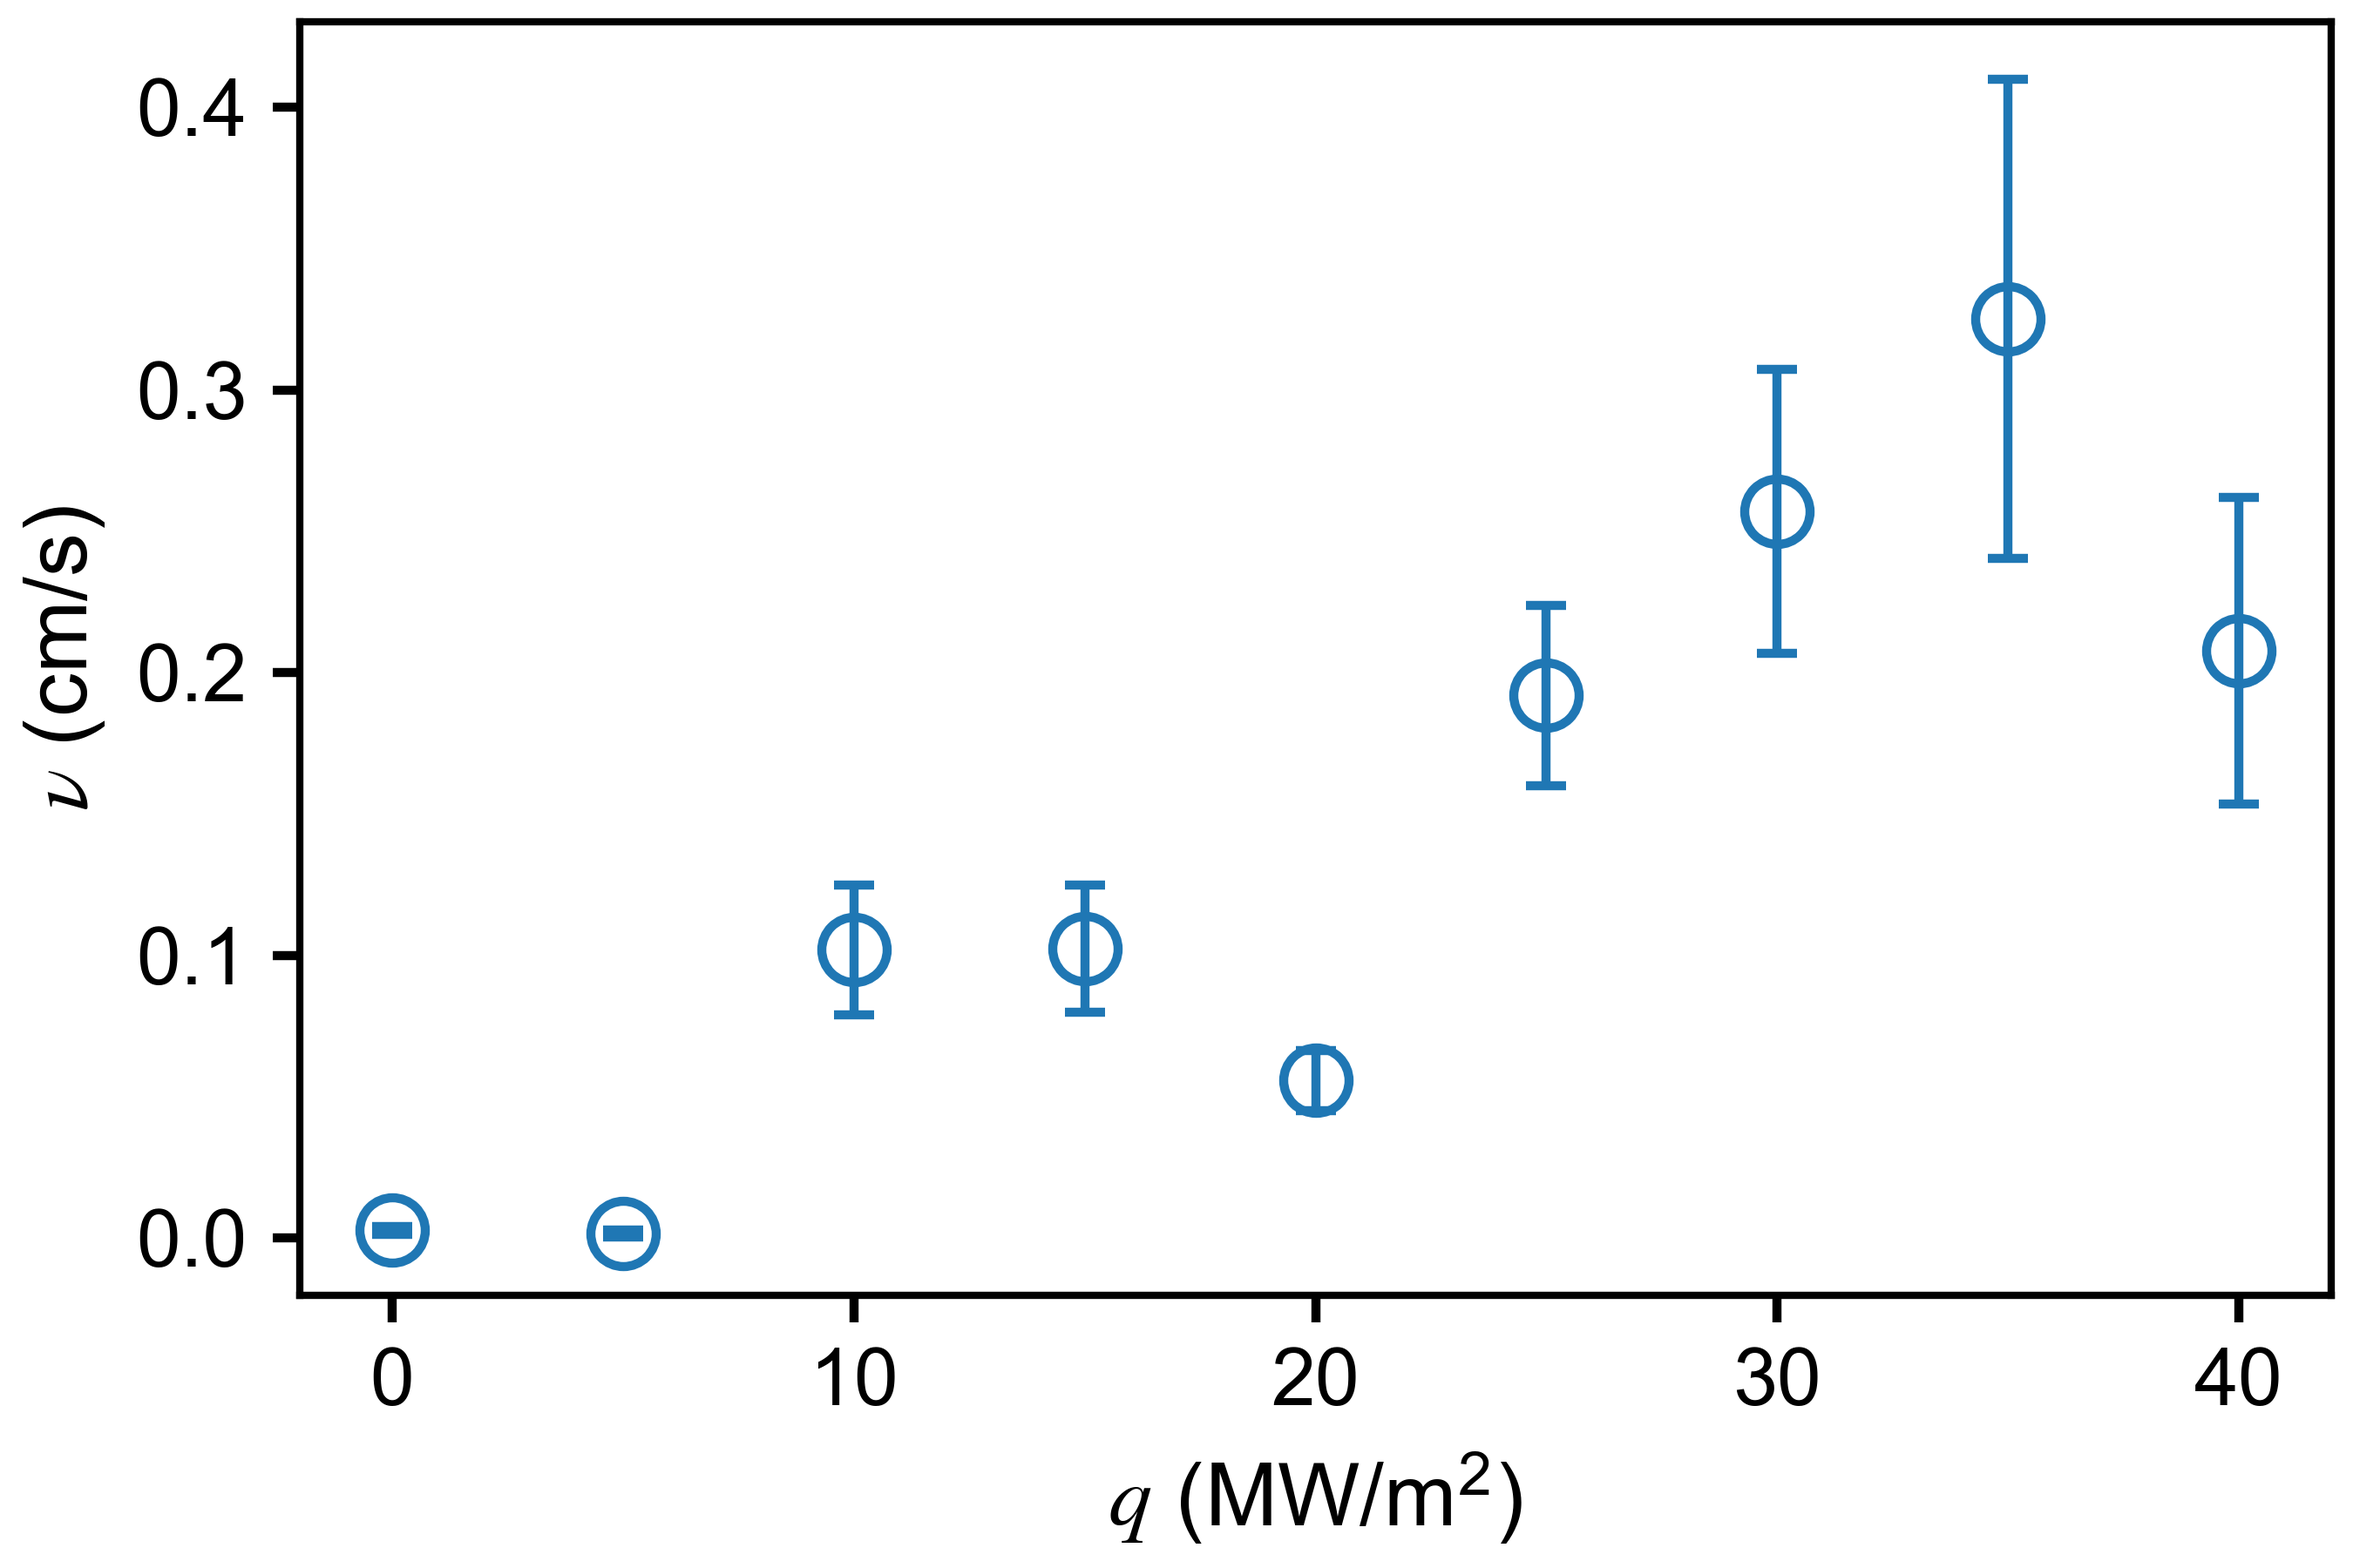
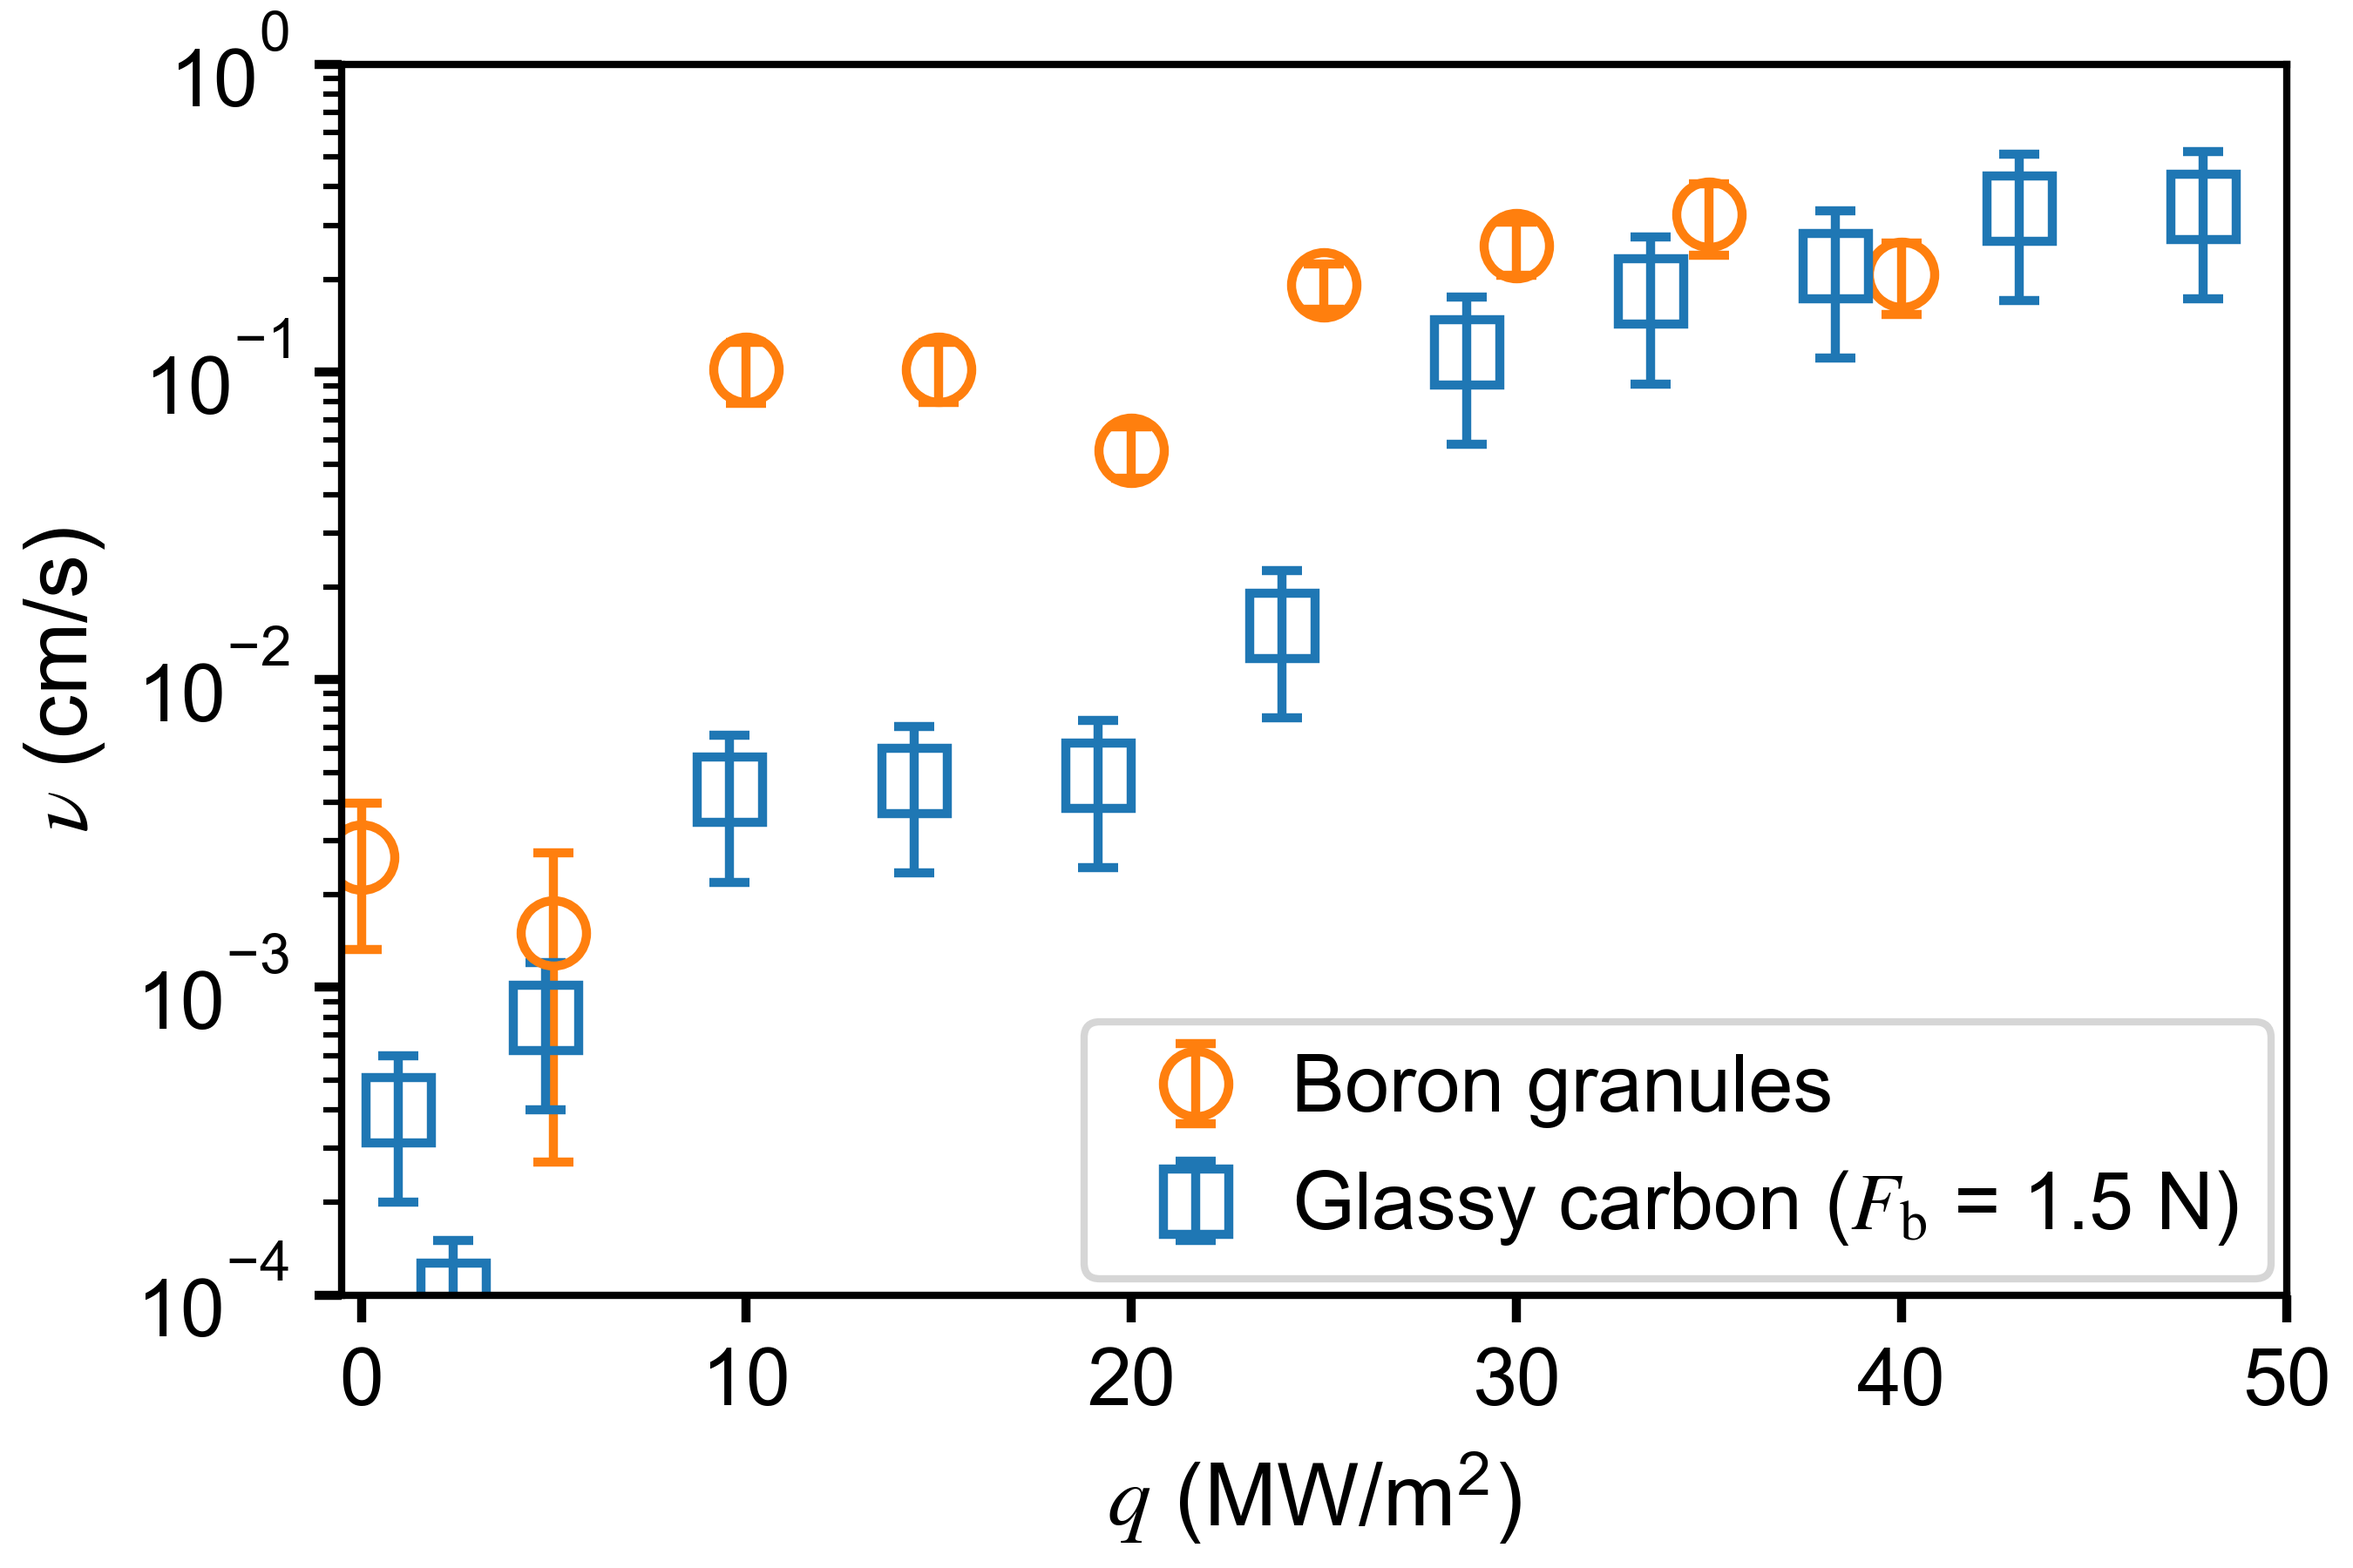
masnuscript3 figures

diff --git a/data_processing/2024/manuscript3/boron_borazane_recession.py b/data_processing/2024/manuscript3/boron_borazane_recession.py
@@ -9,20 +9,24 @@ import json
 laser_power_csv = r'../../laser_power_mapping/laser_power_mapping.csv'
 beam_radius = 0.5 * 0.8165  # * 1.5 # 0.707
 
+
 def load_plot_style():
     with open('plot_style.json', 'r') as file:
         json_file = json.load(file)
         plot_style = json_file['thinLinePlotStyle']
     mpl.rcParams.update(plot_style)
 
+
 def mean_err(x):
     return np.linalg.norm(x) / len(x)
+
+
 def map_laser_power_settings():
-    global laser_power_csv, beam_radius
+    global laser_power_csv
     df: pd.DataFrame = pd.read_csv(laser_power_csv).apply(pd.to_numeric)
     mapping = {}
     for i, row in df.iterrows():
-       mapping[row['Laser power setting (%)']] = row['Laser power (W)']
+        mapping[row['Laser power setting (%)']] = row['Laser power (W)']
 
     keys = list(mapping.keys())
     keys.sort()
@@ -31,25 +35,31 @@ def map_laser_power_settings():
 
 def gaussian_beam_aperture_factor(beam_radius, sample_radius):
     return 1.0 - np.exp(-2.0 * (sample_radius / beam_radius) ** 2.0)
+
+
 def main():
     data_df: pd.DataFrame = pd.read_excel(
         io='data/laser_tests.xlsx', sheet_name=0,
-        usecols=(
+        usecols=[
             'ROW', 'Power percent setting (%)', 'Irradiation time (s)', 'Recession rate (cm/s)',
             'Recession rate error (cm/s)', 'Sample diameter (cm)'
-        )
+        ]
     ).apply(pd.to_numeric)
     laser_mapping = map_laser_power_settings()
     data_df['Laser power (W)'] = [laser_mapping[int(lp)] for lp in data_df['Power percent setting (%)'].values]
-    diameter = 1.#data_df['Sample diameter (cm)'].values
+    diameter = 1.  # data_df['Sample diameter (cm)'].values
     av = gaussian_beam_aperture_factor(beam_radius, 0.5 * diameter)
     area = 0.25 * np.pi * diameter ** 2.
-    data_df['Heat load (MW/m^2)'] = np.round(data_df['Laser power (W)'].values * av / area / 100. /5) *5.
+    data_df['Heat load (MW/m^2)'] = np.round(data_df['Laser power (W)'].values * av / area / 100. / 5) * 5.
     agg_df = data_df.groupby(by=['Heat load (MW/m^2)']).agg(
         ['mean', mean_err]
     )
 
     agg_df.sort_values(by=['Heat load (MW/m^2)']).reset_index(inplace=True, drop=True)
+
+    carbon_df = pd.read_csv(
+        filepath_or_buffer='data/recession_vs_heat_load_30KPa.csv'
+    ).apply(pd.to_numeric)
 
     heat_load = agg_df.index
     nu = agg_df['Recession rate (cm/s)']['mean'].values
@@ -65,8 +75,28 @@ def main():
 
     ax.errorbar(
         heat_load, nu, yerr=nu_err, marker='o', ms=9, mew=1.25, mfc='none',
-        capsize=2.75, elinewidth=1.25, lw=1.5, c='C0', ls='none'
+        capsize=2.75, elinewidth=1.25, lw=1.5, c='C1', ls='none',
+        label='Boron granules'
     )
+
+    ax.errorbar(
+        carbon_df['Heat load (MW/m2)'],
+        carbon_df['Recession rate (cm/s)'],
+        yerr=(carbon_df['Recession rate (cm/s)'] * 0.5),
+        marker='s', color='C0',
+        ms=9, mew=1.25, mfc='none', ls='none',
+        capsize=2.75, elinewidth=1.25, lw=1.5,
+        label=r'Glassy carbon ($F_{\mathrm{b}}$ = 1.5 N)'
+    )
+
+    ax.legend(
+        loc='lower right', frameon=True
+    )
+
+    ax.set_xlim(-0.5, 50)
+    ax.set_ylim(1E-4, 1)
+
+    ax.set_yscale('log')
 
     fig.savefig('figures/boron_pebble_rod_recession.png', dpi=600)
 
